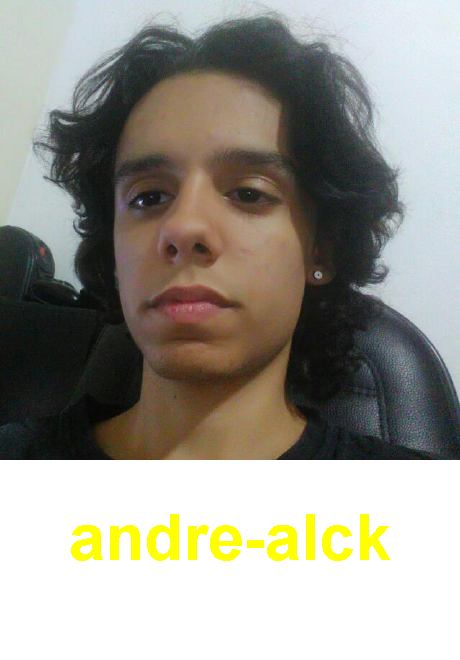
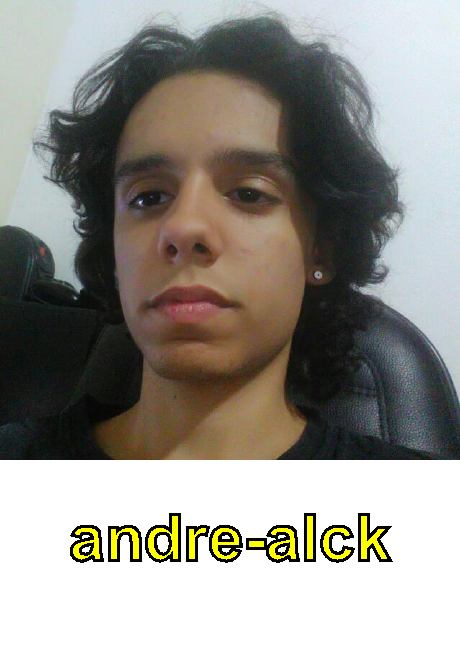
add Aula 02 - Desafio 7

Changed region(s): [[0.1522, 0.7576, 0.8522, 0.8485]]

diff --git a/src/GeradoraDeFigurinhas.java b/src/GeradoraDeFigurinhas.java
@@ -1,6 +1,11 @@
+import java.awt.BasicStroke;
 import java.awt.Color;
 import java.awt.Font;
 import java.awt.Graphics2D;
+import java.awt.Shape;
+import java.awt.font.FontRenderContext;
+import java.awt.font.TextLayout;
+import java.awt.geom.AffineTransform;
 import java.awt.image.BufferedImage;
 import java.io.File;
 import java.io.InputStream;
@@ -19,10 +24,26 @@ public class GeradoraDeFigurinhas {
         Graphics2D graphics = (Graphics2D) novaImagem.getGraphics();
         graphics.drawImage(imagemOriginal, 0, 0, null);
         graphics.setColor(Color.YELLOW);
-        graphics.setFont(new Font(Font.SANS_SERIF, Font.BOLD, 64));
+        var fonte = new Font(Font.SANS_SERIF, Font.BOLD, 64);
+        graphics.setFont(fonte);
         String textoDaFigurinha = "andre-alck";
         int centroHorizontal = (largura / 2) - (graphics.getFontMetrics().stringWidth(textoDaFigurinha) / 2);
         graphics.drawString(textoDaFigurinha, centroHorizontal, novaAltura - 100);
+
+        FontRenderContext fontRenderContext = graphics.getFontRenderContext();
+        var textLayout = new TextLayout(textoDaFigurinha, fonte, fontRenderContext);
+
+        Shape outline = textLayout.getOutline(null);
+        AffineTransform transform = graphics.getTransform();
+        transform.translate(centroHorizontal, novaAltura - 100);
+        graphics.setTransform(transform);
+
+        var outlineStroke = new BasicStroke(largura * 0.007f);
+        graphics.setStroke(outlineStroke);
+
+        graphics.setColor(Color.BLACK);
+        graphics.draw(outline);
+        graphics.setClip(outline);
 
         new File("saida/").mkdir();
         ImageIO.write(novaImagem, "png", new File("saida/" + nomeArquivo));

diff --git a/README.md b/README.md
@@ -1,3 +1,3 @@
-# Desafio 6
+# Desafio 7
 
-Colocar uma imagem de você que está fazendo esse curso sorrindo, fazendo joinha!
+Colocar contorno (outline) no texto da imagem.
